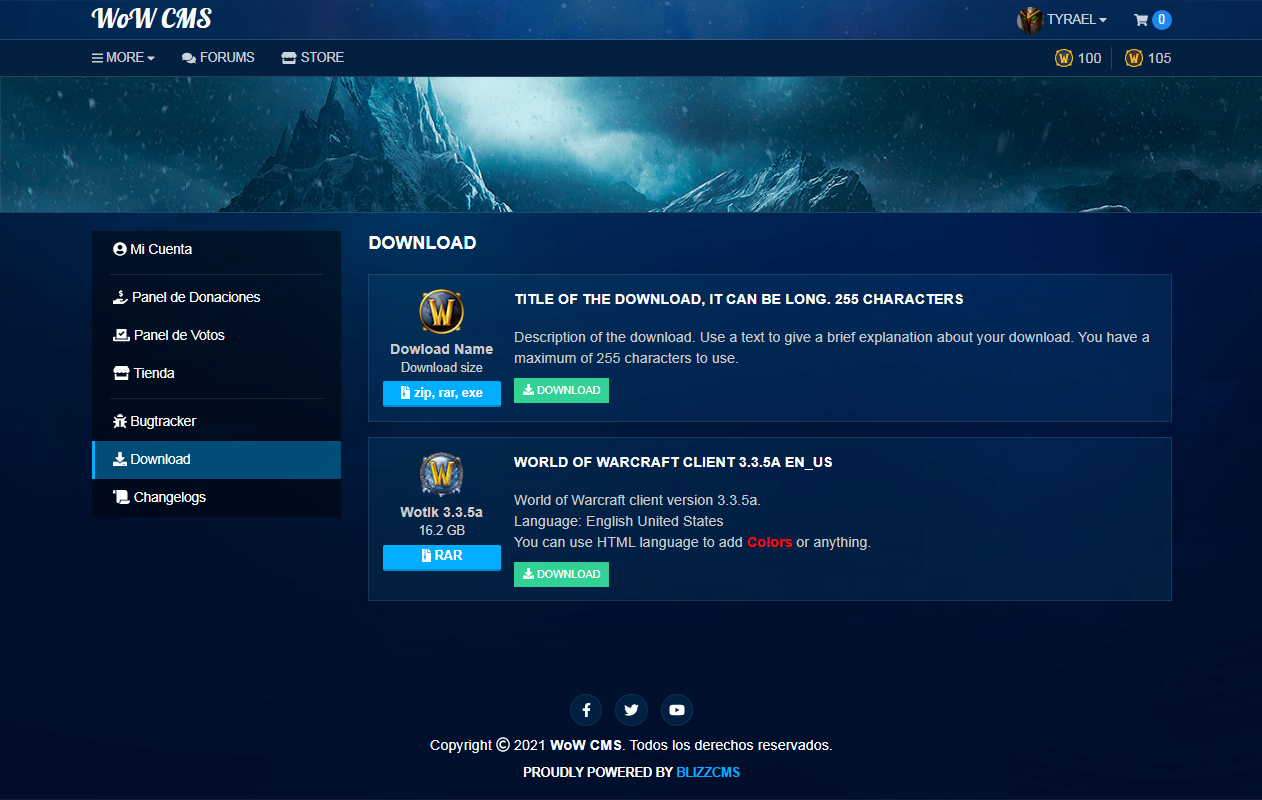
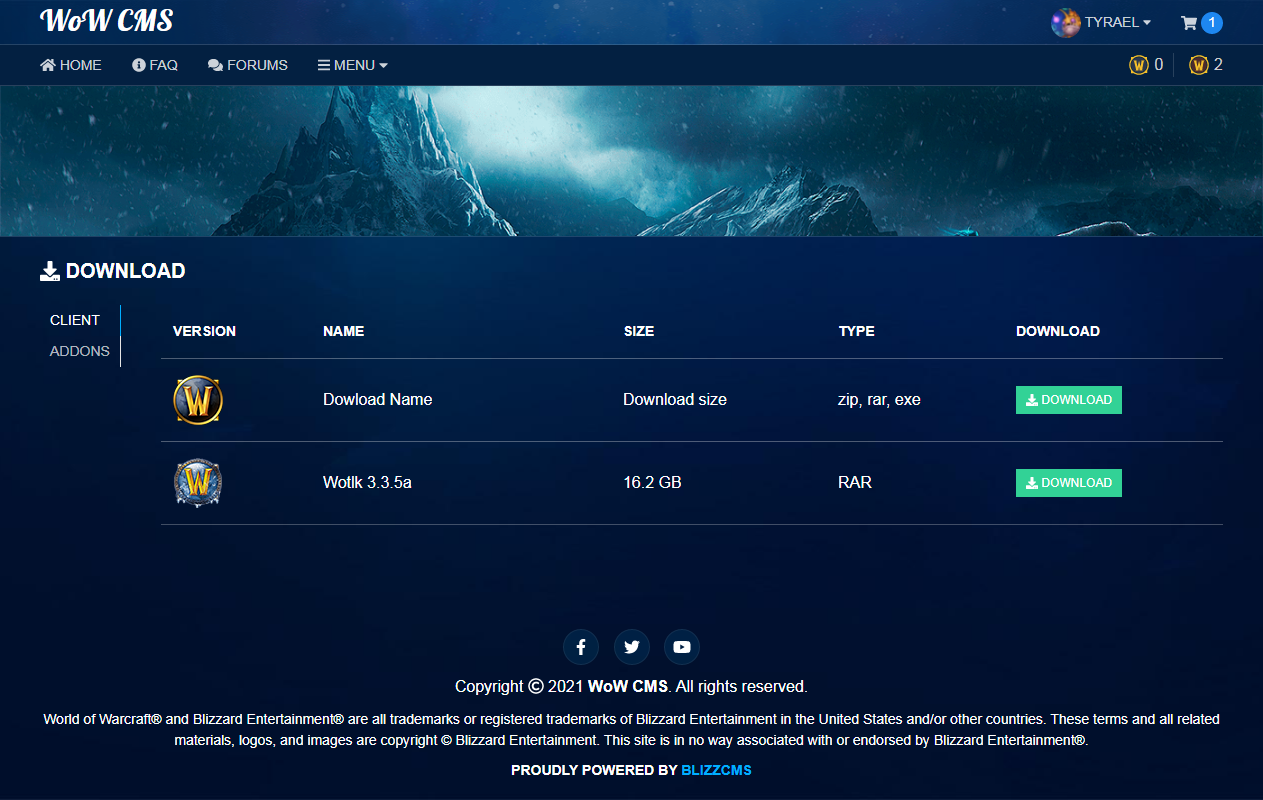
Addon Interface

diff --git a/download/views/index.php b/download/views/index.php
@@ -1,64 +1,76 @@
 <section class="uk-section uk-section-xsmall uk-padding-remove slider-section">
-  <div class="uk-background-cover uk-height-small header-section"></div>
+	<div class="uk-background-cover uk-height-small header-section"></div>
 </section>
 <section class="uk-section uk-section-xsmall main-section" data-uk-height-viewport="expand: true">
 	<div class="uk-container">
 		<div class="uk-grid uk-grid-medium" data-uk-grid>
-			<div class="uk-width-1-4@m">
-				<ul class="uk-nav uk-nav-default myaccount-nav">
-					<?php if($this->wowmodule->getUCPStatus() == '1'): ?>
-					<li><a href="<?= base_url('panel'); ?>"><i class="fas fa-user-circle"></i> <?= $this->lang->line('tab_account'); ?></a></li>
-					<?php endif; ?>
-					<li class="uk-nav-divider"></li>
-					<?php if($this->wowmodule->getDonationStatus() == '1'): ?>
-					<li><a href="<?= base_url('donate'); ?>"><i class="fas fa-hand-holding-usd"></i> <?=$this->lang->line('navbar_donate_panel'); ?></a></li>
-					<?php endif; ?>
-					<?php if($this->wowmodule->getVoteStatus() == '1'): ?>
-					<li><a href="<?= base_url('vote'); ?>"><i class="fas fa-vote-yea"></i> <?=$this->lang->line('navbar_vote_panel'); ?></a></li>
-					<?php endif; ?>
-					<?php if($this->wowmodule->getStoreStatus() == '1'): ?>
-					<li><a href="<?= base_url('store'); ?>"><i class="fas fa-store"></i> <?=$this->lang->line('tab_store'); ?></a></li>
-					<?php endif; ?>
-					<li class="uk-nav-divider"></li>
-					<?php if($this->wowmodule->getBugtrackerStatus() == '1'): ?>
-					<li><a href="<?= base_url('bugtracker'); ?>"><i class="fas fa-bug"></i> <?=$this->lang->line('tab_bugtracker'); ?></a></li>
-					<?php endif; ?>
-					<li class="uk-active"><a href="<?= base_url('download'); ?>"><i class="fas fa-download"></i> Download</a></li>
-					<?php if($this->wowmodule->getChangelogsStatus() == '1'): ?>
-					<li><a href="<?= base_url('changelogs'); ?>"><i class="fas fa-scroll"></i> <?=$this->lang->line('tab_changelogs'); ?></a></li>
-					<?php endif; ?>
-				</ul>
-			</div>
-			<div class="uk-width-3-4@m">
+			<div class="uk-width-1-1">
 				<div class="uk-width-auto">
-					<h4 class="uk-h4 uk-text-uppercase uk-text-bold">Download</h4>
+					<h4 class="uk-h4 uk-text-uppercase uk-text-bold"><i class="fas fa-download"></i> Download</h4>
 				</div>
 				<div class="uk-width-expand@s">
-					<?php foreach($this->download_model->getFilesList()->result() as $files): ?>
-						<div style="padding: 0px 0px 17px;">
-							<div class="uk-card uk-card-default uk-card-body">
-								<div class="uk-grid uk-grid-small" data-uk-grid>
-									<div class="uk-width-1-6@s">
-										<div class="Author uk-flex uk-flex-center">
-											<div style="padding-bottom:6px;">
-												<img src="<?= base_url('assets/images/forums/wow-icons/'.$files->image); ?>" alt="" width="50" height="50" />
-											</div>
-										</div>
-										<p class="uk-text-bold uk-text-center uk-margin-remove"><?= $files->file_name ?></p>
-										<p class="uk-margin-remove uk-text-meta uk-text-center"><?= $files->weight ?></p>
-										<div class="author-rank-staff"><i class="fas fa-file-archive"></i> <?= $files->type ?></div>
-									</div>
-									<div class="uk-width-expand@s">
-										<h5 class="uk-h5 uk-text-uppercase uk-text-bold"><?= $files->title ?></h5>
-										<?= $files->description ?>
-										<div class="uk-margin-small-top uk-margin-remove-bottom">
-											<a class="uk-button uk-label-success uk-button-small" href="<?= $files->url ?>" target="_blank"><i class="fas fa-download"></i> Download</a>
-										</div>
-									</div>
+					<div class="uk-child-width-1-1" uk-grid>
+						<div>
+							<div uk-grid>
+								<div class="uk-width-auto@m">
+									<ul class="uk-tab-left" uk-tab="connect: #component-tab-left; animation: uk-animation-slide-left-medium, uk-animation-slide-right-medium">
+										<li><a href="#">Client</a></li>
+										<li><a href="#">Addons</a></li>
+									</ul>
+								</div>
+								<div class="uk-width-expand@m">
+									<ul id="component-tab-left" class="uk-switcher">
+										<li>
+											<table class="uk-table uk-table-middle uk-table-divider">
+												<thead>
+													<tr>
+														<th class="uk-width-small">Version</th>
+														<th class="uk-width-medium">Name</th>
+														<th>Size</th>
+														<th>Type</th>
+														<th>Download</th>
+													</tr>
+												</thead>
+												<tbody>
+													<?php foreach($this->download_model->getGame()->result() as $files): ?>
+													<tr>
+														<td><div style="background:url(<?= base_url('assets/images/forums/wow-icons/'.$files->image); ?>); width: 50px; height: 50px;)"></div></td>
+														<td><?= $files->fileName ?></td>
+														<td><?= $files->weight ?></td>
+														<td><?= $files->type ?></td>
+														<td><a class="uk-button uk-label-success uk-button-small" href="<?= $files->url ?>" target="_blank"><i class="fas fa-download"></i> Download</a></td>
+													</tr>
+													<?php endforeach; ?>
+												</tbody>
+											</table>
+										</li>
+										<li>
+											<table class="uk-table uk-table-middle uk-table-divider">
+												<thead>
+													<tr>
+														<th class="uk-width-small">Version</th>
+														<th class="uk-width-large">Name</th>
+														<th>Size</th>
+														<th>Download</th>
+													</tr>
+												</thead>
+												<tbody>
+													<?php foreach($this->download_model->getAddons()->result() as $files): ?>
+													<tr>
+														<td><div style="background:url(<?= base_url('assets/images/forums/wow-icons/'.$files->image); ?>); width: 50px; height: 50px;)"></div></td>
+														<td><?= $files->fileName ?></td>
+														<td><?= $files->weight ?></td>
+														<td><a class="uk-button uk-label-success uk-button-small" href="<?= $files->url ?>" target="_blank"><i class="fas fa-download"></i> Download</a></td>
+													</tr>
+													<?php endforeach; ?>
+												</tbody>
+											</table>
+										</li>
+									</ul>
 								</div>
 							</div>
 						</div>
-					<?php endforeach; ?>
+					</div>
 				</div>
 			</div>
 		</div>

diff --git a/download/models/Download_model.php b/download/models/Download_model.php
@@ -11,9 +11,14 @@ class Download_model extends CI_Model {
         parent::__construct();
     }
 	
-	public function getFilesList()
+	public function getGame()
     {
-        return $this->db->select('*')->order_by('id', 'ASC')->limit('20')->get('download');
+        return $this->db->select('*')->where('category', '1')->order_by('id', 'ASC')->get('download');
+    }
+	
+	public function getAddons()
+    {
+        return $this->db->select('*')->where('category', '2')->order_by('id', 'ASC')->get('download');
     }
 	
 }
